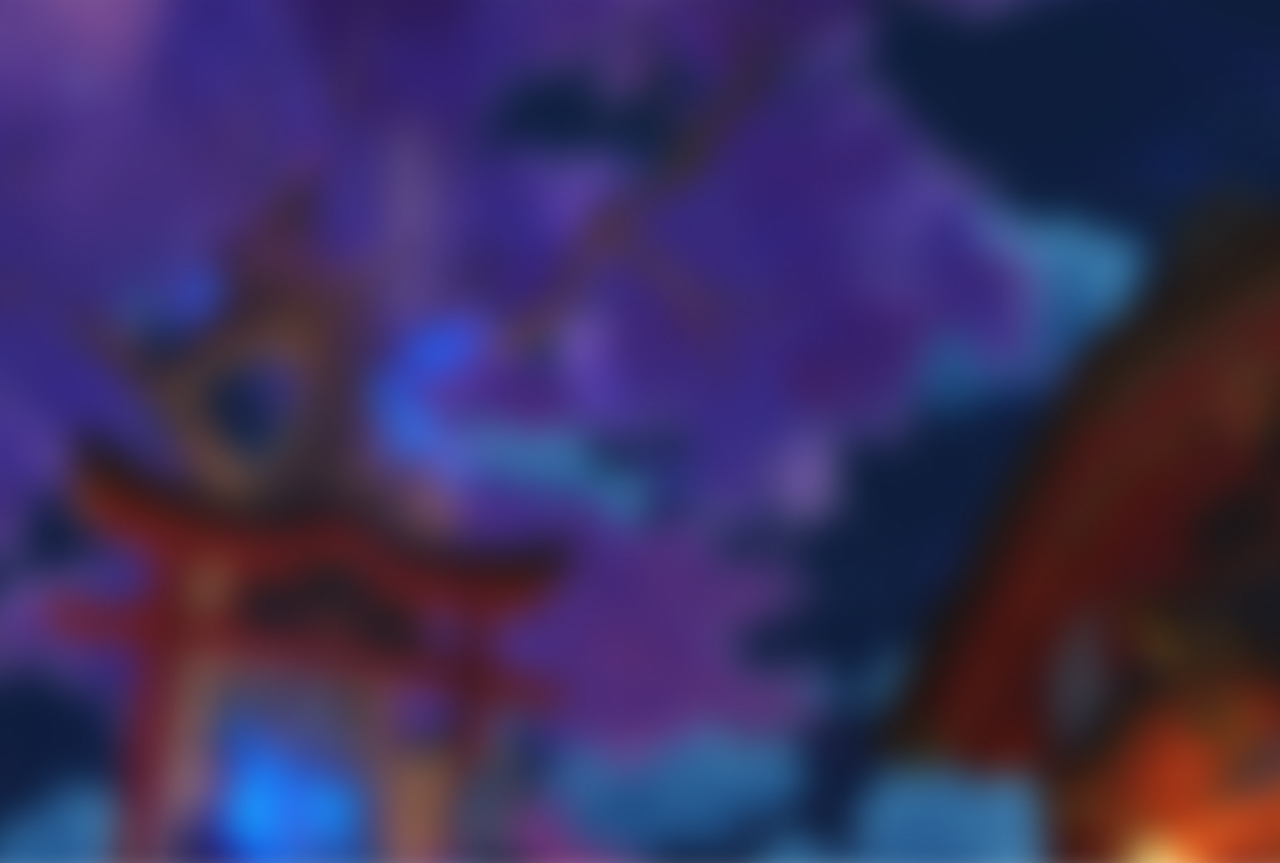
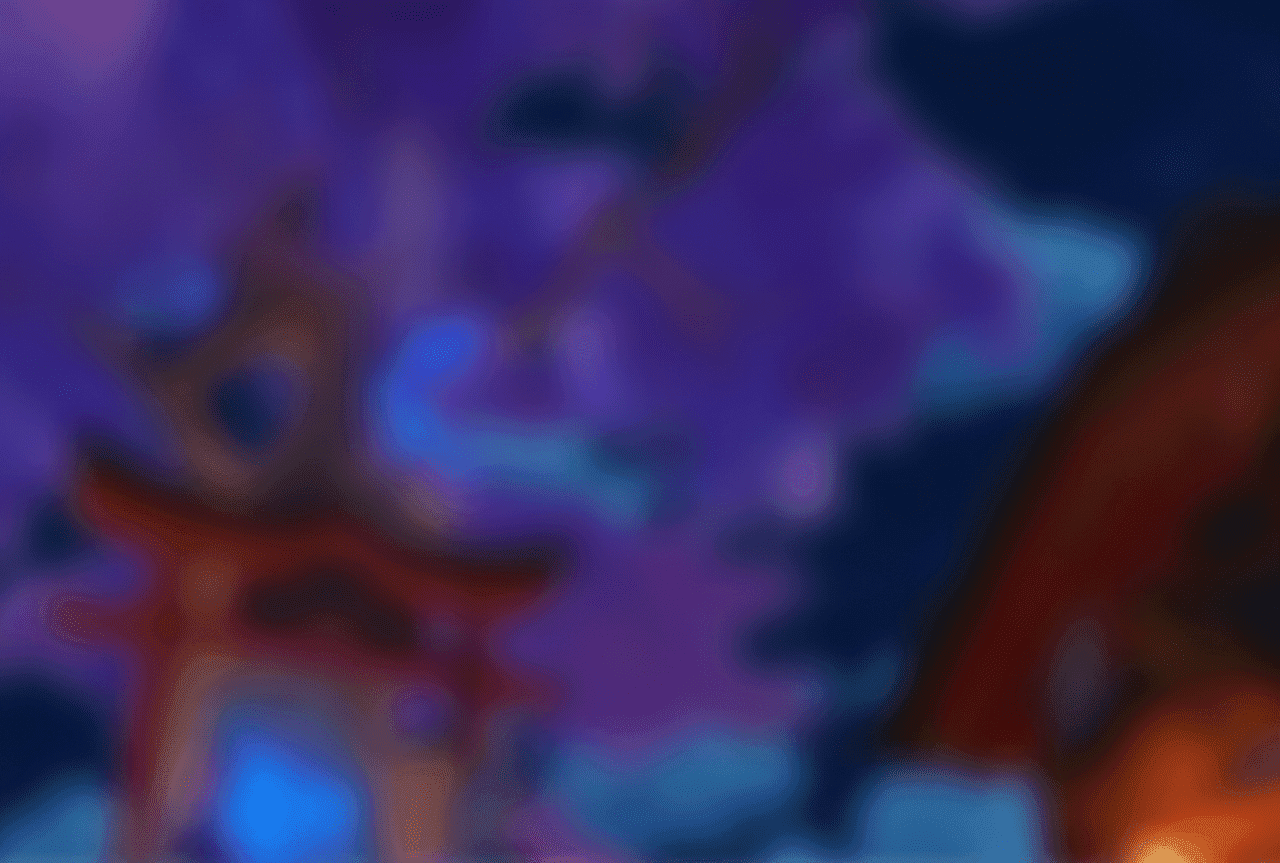
Fix perfomance issue

diff --git a/src/components/home/FocusBox.jsx b/src/components/home/FocusBox.jsx
@@ -7,8 +7,8 @@ const FocusBox = (props) => {
                 <span className='pt-1 pl-2 pr-5 bg-zinc-800 bg-opacity-80 rounded-br-md'>
                     <p className='text-sm md:text-base text-zinc-100'>{props.name}</p>
                 </span>
-                <div className={'flex flex-col gap-2 px-2 my-3 w-full scrollbar-config'.concat(!(props.characterPage) ? ' h-[200px] overflow-y-auto' : '')}>
-                    {props.content.length === 0 ? <p className='text-zinc-100 text-center w-full'>No data!</p> : null}
+                <div className={'flex flex-col gap-2 px-2 my-3 w-full scrollbar-config'}>
+                    {props.content.length === 0 ? <p className='text-zinc-100 text-center w-full py-2'>No character/weapon to focus!</p> : null}
                     {props.content.map((items, index) => {
                         return <Button key={index} name={items.name} image={items.image} url={(items.material ? '/mats/' : (items.weapontype ? '/wp/' : (items.flower ? '/art' : '/ch/'))) + items.url} />
                     })}

diff --git a/src/App.jsx b/src/App.jsx
@@ -14,15 +14,17 @@ const App = () => {
     }
 
     return (
-        <div className='bg-inazuma bg-no-repeat bg-cover font-josefin bg-fixed'>
-            <div className='max-w-screen-md mx-auto bg-main bg-opacity-60 md:px-3 min-h-screen'>
-                <Navbar />
-                <Search handleSearch={handleSearch} />
-                <div className='p-3'>
-                    {isSearch ? <SearchResults input={isSearch} updateInput={setIsSearch} /> : <Outlet />}
-                </div>
+        <>
+        
+        <div className='bg-inazuma bg-no-repeat bg-cover bg-center fixed z-[-1] h-screen w-screen'></div>
+        <div className='font-josefin max-w-screen-md mx-auto bg-main bg-opacity-60 md:px-3 min-h-screen relative'>
+            <Navbar />
+            <Search handleSearch={handleSearch} />
+            <div className='p-3'>
+                {isSearch ? <SearchResults input={isSearch} updateInput={setIsSearch} /> : <Outlet />}
             </div>
         </div>
+        </>
     )
 }
 

diff --git a/src/components/global/FallbackLazy.jsx b/src/components/global/FallbackLazy.jsx
@@ -2,14 +2,16 @@ import Navbar from "./Navbar"
 
 const FallbackLazy = () => {
     return(
-         <div className='bg-inazuma bg-no-repeat bg-cover font-josefin bg-fixed'>
-            <div className='max-w-screen-md mx-auto bg-main bg-opacity-60 md:px-3 min-h-screen'>
-                <Navbar />
-                <div className='p-3'>
-                    <p className='text-zinc-100 text-center animate-pulse'>Loading...</p>
-                </div>
+        <>
+        <div className='bg-inazuma bg-no-repeat bg-cover fixed z-[-1] h-screen w-screen'></div>
+        <div className='max-w-screen-md mx-auto bg-main bg-opacity-60 font-josefin md:px-3 min-h-screen relative'>
+            <Navbar />
+            <div className='p-3'>
+                <p className='text-zinc-100 text-center animate-pulse'>Loading...</p>
             </div>
         </div>
+        
+        </>
     )
 }
 

diff --git a/src/pages/Home.jsx b/src/pages/Home.jsx
@@ -36,7 +36,7 @@ const Home = () => {
         : 
         <>
         <NewContent />
-        <div className="py-7 flex flex-col gap-3 md:flex-row">
+        <div className="py-7 flex flex-col items-start gap-3 md:flex-row">
             {/* BUAT ENDPOINT UNTUK FOCUS */}
             <FocusBox name="Daily Materials" daily={true} content={daily} />
             <FocusBox name="Your Focus" daily={false} content={focus} />

diff --git a/tailwind.config.js b/tailwind.config.js
@@ -20,8 +20,8 @@ module.exports = {
         'button-text': '#353535'
       },
       backgroundImage: {
-        'inazuma': "url('./assets/bg-inazuma.png')",
-        'char': "url('./assets/bg-char.png')",
+        'inazuma': "url('./assets/bg-inazuma.webp')",
+        'char': "url('./assets/bg-char.webp')",
         'new-content': "url('./assets/new-content/tighnari.png')"
       },
     },

diff --git a/src/index.css b/src/index.css
@@ -9,7 +9,7 @@
 }
 
 .container-box {
-    @apply bg-char bg-cover bg-no-repeat rounded-md drop-shadow-md overflow-hidden
+    @apply bg-char bg-cover bg-no-repeat rounded-md drop-shadow-md overflow-hidden w-full
 }
 
 .container-box__text {
